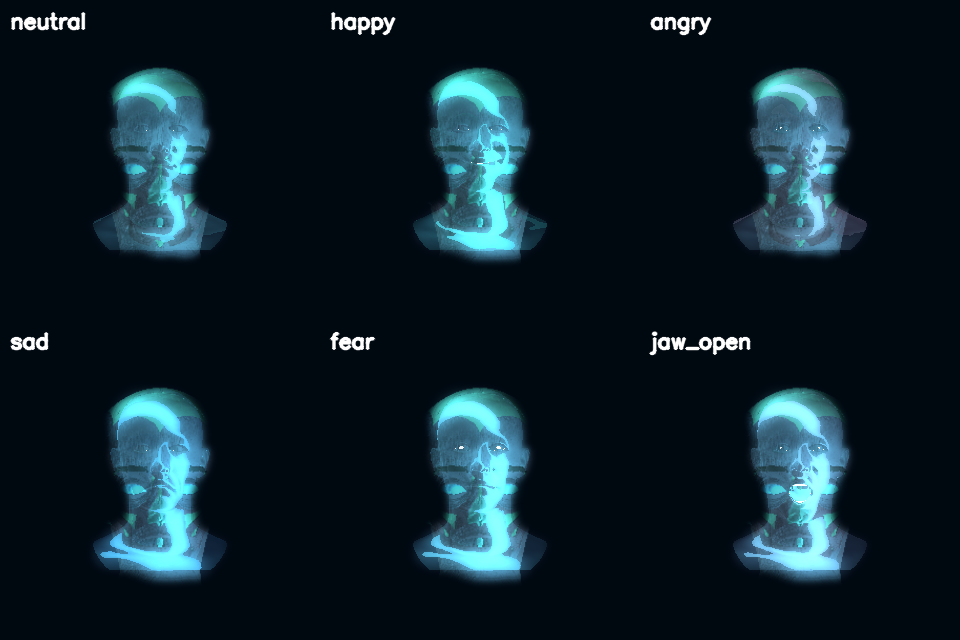
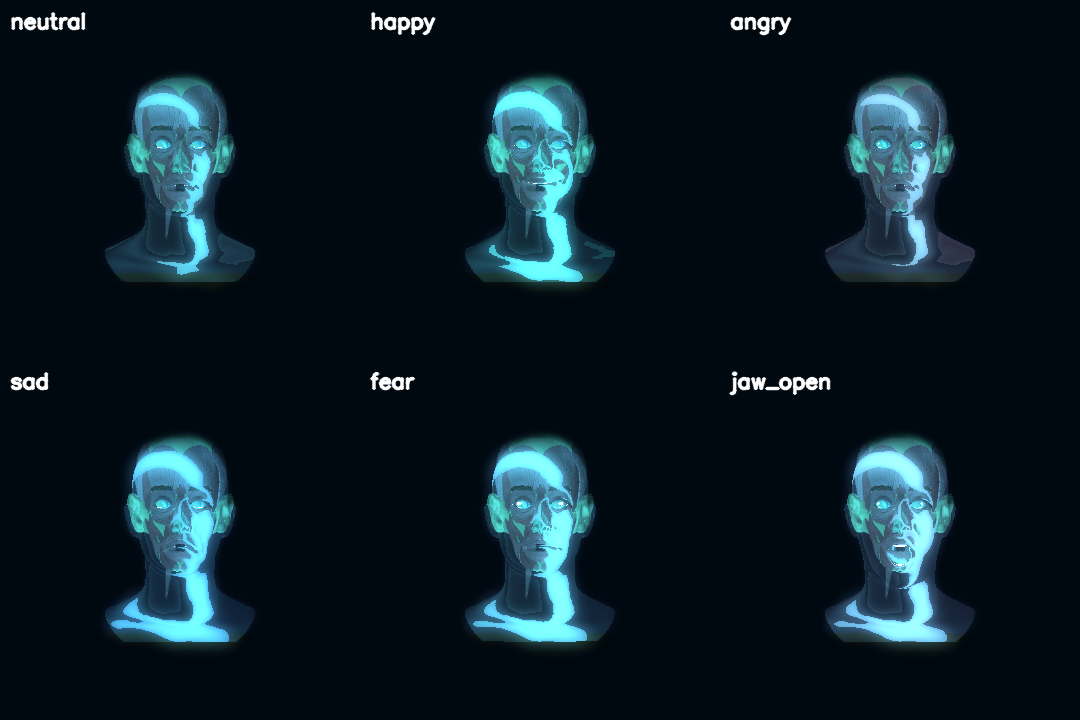
Feature-anchor jelly alignment — eyes and mouth overlay exactly
Replaces bbox-based BP3D alignment (poor proxy for actual feature
positions) with a 3-point affine warp anchored on projected eye-L /
eye-R / mouth centroids of both meshes.

How:
- ICT 3D anchors: per-region centroids from blendshape regions
  (eyelid verts split L/R by sign of x; lips for mouth).
- BP3D 3D anchors: Orbic. Oculi Orb. L/R muscle centroids (ring
  the eye → centroid sits on the eye centre); Orbicularis Oris
  centroid for the mouth.
- _project_ict_to_pixel and _project_bp3d_to_pixel re-implement
  each renderer's MVP exactly (ICT: centre-on-bbox + 1.6/span +
  z-flip; BP3D: rx0+ry180 pre-rotation + bone-bbox centre +
  1.7/span_bone) and project the 3D anchors to pixel coords.
- cv2.getAffineTransform on the three pixel correspondences gives
  a per-frame affine that maps BP3D's eye/mouth pixels onto ICT's.
- The resulting warp absorbs the X-mirror that gpu_renderer's
  ry180 introduces, plus all the per-renderer scale/centre
  differences.

Result: glowing cyan iris of the ICT face sits exactly on the
BP3D Eyeball / Orbic. Oculi position; the lip line of the ICT
face sits at the Orbicularis Oris centroid in every frame.

diff --git a/src/faceview/vision/ict_face.py b/src/faceview/vision/ict_face.py
@@ -504,75 +504,183 @@ def _is_neck_muscle(name: str) -> bool:
     return any(tok in name for tok in _NECK_MUSCLE_TOKENS)
 
 
-def _align_anatomy_to_ict(
-    anatomy: np.ndarray, ict: np.ndarray, bg_rgb: tuple[int, int, int],
-) -> np.ndarray:
-    """Uniform-scale + centre BP3D anatomy onto ICT's head footprint.
+@lru_cache(maxsize=1)
+def _ict_feature_points_3d() -> dict[str, np.ndarray]:
+    """ICT eye-L / eye-R / mouth centroids in the model's local frame.
 
-    The two renderers normalise to their own bboxes so the rendered
-    head sizes differ. We measure each foreground bbox, compute a
-    single uniform scale factor (no aspect distortion) that matches
-    BP3D's bbox HEIGHT to ICT's bbox HEIGHT, then translate so the
-    bbox vertical *and* horizontal centres align. That keeps the
-    skull cap on the head crown, the eye sockets near the ICT eyes,
-    and the cervical spine centred on the neck.
+    Computed once from the neutral mesh + blendshape-derived region
+    masks: eyelid blendshapes localise the eye verts (split L/R by
+    sign of x); lips blendshapes localise the mouth verts. These
+    centroids are stable feature anchors used for cross-renderer
+    pixel-space alignment in jelly mode.
+    """
+    m = load_ict_model()
+    regions = _vertex_regions()
+    eyelid = regions["eyelid"]
+    lips = regions["lips"]
+    if not eyelid.any() or not lips.any():
+        return {}
+    verts = m.vertices
+    # ICT mesh: head-on, +X is the *subject's* left side from the
+    # camera's POV (so screen-right is X<0). Split eyelid verts by
+    # x sign for L/R.
+    eyelid_verts = verts[eyelid]
+    left = eyelid_verts[eyelid_verts[:, 0] > 0]
+    right = eyelid_verts[eyelid_verts[:, 0] < 0]
+    if not len(left) or not len(right):
+        return {}
+    return {
+        "eye_L": left.mean(axis=0).astype(np.float32),
+        "eye_R": right.mean(axis=0).astype(np.float32),
+        "mouth": verts[lips].mean(axis=0).astype(np.float32),
+    }
+
+
+@lru_cache(maxsize=1)
+def _bp3d_feature_points_3d() -> dict[str, np.ndarray] | None:
+    """BP3D eye-L / eye-R / mouth centroids in BP3D's local frame.
+
+    Eye-L / eye-R from Orbic. Oculi Orb. L/R muscle centroids (these
+    encircle the eye so their centroid sits on the eye centre).
+    Mouth from Orbicularis Oris (the lip ring muscle). Returns
+    None if any of the three meshes isn't on disk.
+    """
+    try:
+        from faceview.vision.anatomy_meshes import (
+            list_available_meshes, load_mesh,
+        )
+    except Exception:
+        return None
+    fma_eye_l = "FMA46783"
+    fma_eye_r = "FMA46782"
+    fma_mouth = "FMA46841"
+    avail = set(list_available_meshes())
+    if not all(f in avail for f in (fma_eye_l, fma_eye_r, fma_mouth)):
+        return None
+    return {
+        "eye_L": load_mesh(fma_eye_l).vertices.mean(axis=0).astype(np.float32),
+        "eye_R": load_mesh(fma_eye_r).vertices.mean(axis=0).astype(np.float32),
+        "mouth": load_mesh(fma_mouth).vertices.mean(axis=0).astype(np.float32),
+    }
+
+
+def _project_ict_to_pixel(
+    points_3d: dict[str, np.ndarray],
+    yaw: float, pitch: float, size: tuple[int, int],
+) -> dict[str, tuple[float, float]]:
+    """Project ICT model-space points through the same MVP the ICT
+    renderer uses, returning pixel coordinates.
+    """
+    m = load_ict_model()
+    verts = m.vertices
+    vmin = verts.min(axis=0)
+    vmax = verts.max(axis=0)
+    centre = (vmin + vmax) / 2.0
+    span = float(np.linalg.norm(vmax - vmin))
+    scale = 1.6 / max(span, 1e-6)
+
+    cy_, sy_ = float(np.cos(yaw)), float(np.sin(yaw))
+    cp_, sp_ = float(np.cos(pitch)), float(np.sin(pitch))
+    ry = np.array([[cy_, 0, sy_], [0, 1, 0], [-sy_, 0, cy_]],
+                    dtype=np.float32)
+    rx = np.array([[1, 0, 0], [0, cp_, -sp_], [0, sp_, cp_]],
+                    dtype=np.float32)
+    flip = np.diag([1.0, 1.0, -1.0]).astype(np.float32)
+    M = ry @ rx @ flip
+
+    w, h = size
+    out: dict[str, tuple[float, float]] = {}
+    for name, p in points_3d.items():
+        v = (p - centre) * scale
+        v = M @ v
+        # Orthographic to NDC then to pixel. Frag y was flipped via
+        # np.flipud after read → so screen y matches our negated y.
+        # We undo the flipud here: y_pix = (1 - (v.y + 1)/2) * h
+        x_pix = (v[0] + 1.0) / 2.0 * w
+        y_pix = (1.0 - (v[1] + 1.0) / 2.0) * h
+        out[name] = (float(x_pix), float(y_pix))
+    return out
+
+
+def _project_bp3d_to_pixel(
+    points_3d: dict[str, np.ndarray],
+    specs: list, yaw: float, pitch: float, size: tuple[int, int],
+) -> dict[str, tuple[float, float]]:
+    """Project BP3D model-space points through the gpu_renderer MVP."""
+    from faceview.vision.anatomy_meshes import load_mesh
+
+    rx0 = np.array([[1, 0, 0], [0, 0, 1], [0, -1, 0]], dtype=np.float32)
+    ry180 = np.array([[-1, 0, 0], [0, 1, 0], [0, 0, -1]], dtype=np.float32)
+    R_pre = ry180 @ rx0  # BP3D → screen reorientation (gpu_renderer)
+
+    bone_specs = [s for s in specs if s.category == "bone"]
+    ref = bone_specs if bone_specs else specs
+    all_verts: list[np.ndarray] = []
+    for s in ref:
+        m = load_mesh(s.fma)
+        all_verts.append(m.vertices @ R_pre.T)
+    verts_all = np.vstack(all_verts)
+    vmin = verts_all.min(axis=0)
+    vmax = verts_all.max(axis=0)
+    centre = (vmin + vmax) / 2.0
+    span = float(np.linalg.norm(vmax - vmin))
+    scale = 1.7 / max(span, 1e-6)
+
+    cy_, sy_ = float(np.cos(yaw)), float(np.sin(yaw))
+    cp_, sp_ = float(np.cos(pitch)), float(np.sin(pitch))
+    ry = np.array([[cy_, 0, sy_], [0, 1, 0], [-sy_, 0, cy_]],
+                    dtype=np.float32)
+    rx = np.array([[1, 0, 0], [0, cp_, -sp_], [0, sp_, cp_]],
+                    dtype=np.float32)
+
+    w, h = size
+    out: dict[str, tuple[float, float]] = {}
+    for name, p in points_3d.items():
+        v = R_pre @ p           # apply BP3D-screen pre-rotation
+        v = (v - centre) * scale
+        v = ry @ rx @ v
+        x_pix = (v[0] + 1.0) / 2.0 * w
+        y_pix = (1.0 - (v[1] + 1.0) / 2.0) * h
+        out[name] = (float(x_pix), float(y_pix))
+    return out
+
+
+def _align_anatomy_to_ict(
+    anatomy: np.ndarray, bg_rgb: tuple[int, int, int],
+    specs: list, yaw: float, pitch: float, size: tuple[int, int],
+) -> np.ndarray:
+    """Feature-anchor warp: BP3D anatomy aligned to ICT by projecting
+    the L-eye / R-eye / mouth centroids of each model through their
+    respective renderer MVPs and computing the affine transform that
+    maps BP3D's three pixel anchors onto ICT's. Eyes and mouth then
+    overlay exactly.
     """
     import cv2
 
-    h, w, _ = ict.shape
+    w, h = size
     bg_arr = np.array(bg_rgb, dtype=np.float32)
 
-    def fg_bbox(img: np.ndarray) -> tuple[int, int, int, int] | None:
-        diff = np.linalg.norm(img.astype(np.float32) - bg_arr[None, None, :],
-                                axis=2)
-        mask = diff > 20.0
-        ys, xs = np.where(mask)
-        if not len(xs):
-            return None
-        return int(xs.min()), int(ys.min()), int(xs.max()), int(ys.max())
-
-    a_box = fg_bbox(anatomy)
-    i_box = fg_bbox(ict)
-    if a_box is None or i_box is None:
+    ict_3d = _ict_feature_points_3d()
+    bp3_3d = _bp3d_feature_points_3d()
+    if not ict_3d or not bp3_3d:
         return anatomy
 
-    ax0, ay0, ax1, ay1 = a_box
-    ix0, iy0, ix1, iy1 = i_box
+    ict_pix = _project_ict_to_pixel(ict_3d, yaw, pitch, size)
+    bp3_pix = _project_bp3d_to_pixel(bp3_3d, specs, yaw, pitch, size)
 
-    # Width is the more reliable size cue once neck content is
-    # filtered out — both ICT and BP3D heads have similar ear-to-ear
-    # widths even when overall bbox heights differ. Slight downscale
-    # (0.96) keeps the anatomy *just inside* the ICT silhouette so
-    # the bloom halo around the ICT face frames it.
-    a_w = max(1, ax1 - ax0 + 1)
-    i_w = max(1, ix1 - ix0 + 1)
-    scale = (i_w / a_w) * 0.96
-
-    a_crop = anatomy[ay0:ay1 + 1, ax0:ax1 + 1]
-    new_w = max(1, int(round(a_crop.shape[1] * scale)))
-    new_h = max(1, int(round(a_crop.shape[0] * scale)))
-    a_resized = cv2.resize(a_crop, (new_w, new_h),
-                            interpolation=cv2.INTER_LINEAR)
-
-    # Target top-left so the resized bbox centre matches ICT centre.
-    icx = (ix0 + ix1) / 2.0
-    icy = (iy0 + iy1) / 2.0
-    tx = int(round(icx - new_w / 2.0))
-    ty = int(round(icy - new_h / 2.0))
-
-    out = np.zeros_like(ict)
-    out[:, :] = bg_arr.astype(np.uint8)
-    # Source/dest cropping for boundary handling.
-    sx0 = max(0, -tx)
-    sy0 = max(0, -ty)
-    dx0 = max(0, tx)
-    dy0 = max(0, ty)
-    cw = max(0, min(new_w - sx0, w - dx0))
-    ch = max(0, min(new_h - sy0, h - dy0))
-    if cw > 0 and ch > 0:
-        out[dy0:dy0 + ch, dx0:dx0 + cw] = a_resized[sy0:sy0 + ch,
-                                                       sx0:sx0 + cw]
-    return out
+    src = np.array([bp3_pix["eye_L"], bp3_pix["eye_R"], bp3_pix["mouth"]],
+                    dtype=np.float32)
+    dst = np.array([ict_pix["eye_L"], ict_pix["eye_R"], ict_pix["mouth"]],
+                    dtype=np.float32)
+    # Full affine (3-point) — captures uniform scale, shear-free
+    # rotation, and translation. Eyes line up; mouth line is
+    # vertically anchored so the lip muscles sit at ICT's lip line.
+    M = cv2.getAffineTransform(src, dst)
+    return cv2.warpAffine(
+        anatomy, M, (w, h),
+        flags=cv2.INTER_LINEAR, borderMode=cv2.BORDER_CONSTANT,
+        borderValue=tuple(int(c) for c in bg_arr),
+    )
 
 
 def _render_jelly_composite(params, size: tuple[int, int]) -> np.ndarray:
@@ -637,9 +745,12 @@ def _render_jelly_composite(params, size: tuple[int, int]) -> np.ndarray:
     except Exception:
         return ict_bgr
 
-    # Match BP3D head footprint to ICT head footprint with a uniform
-    # scale + centroid translation (no aspect-distorting bbox stretch).
-    anatomy_bgr = _align_anatomy_to_ict(anatomy_bgr, ict_bgr, bg_rgb)
+    # Feature-anchor warp: project ICT and BP3D eye-L/R + mouth
+    # centroids to pixel space through each renderer's MVP, then
+    # affine-warp BP3D so all three features overlay ICT's exactly.
+    anatomy_bgr = _align_anatomy_to_ict(
+        anatomy_bgr, bg_rgb, specs, yaw, pitch, size,
+    )
 
     # Cool-tint and brighten the anatomy so it reads as part of the
     # xray aesthetic instead of warm bone — crush warm channels hard